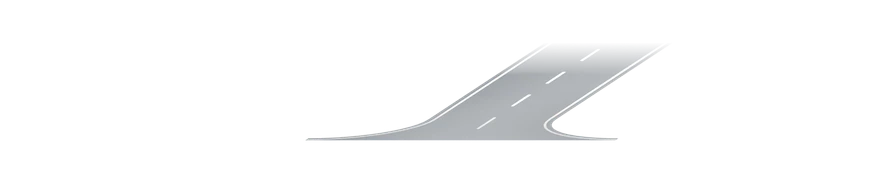
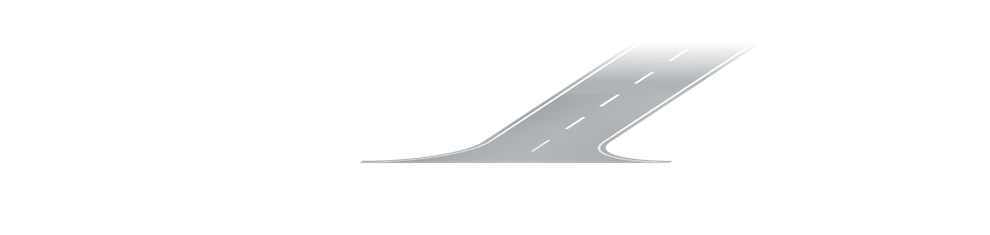
Lastbilen backar djupare in på sidovägen och svänger vidare
Släpets hjulaxel svänger nu med 9 m radie i stället för 6 m, och
backningen in på sidovägen är 10 m i stället för 7 m. Knickvinkeln
mellan dragbil och släp blir 48° i stället för 59°, och hela ekipaget
står inne på sidovägen innan det kör ut. Förut stod hytten kvar mitt
på huvudvägen.

Duken har mer plats nedåt, så skuggan inte längre kapas rakt när
lastbilen står vänd mot kameran. Svängen tar 70 bildrutor.

diff --git a/portfolio-svelte/static/css/portfolio.css b/portfolio-svelte/static/css/portfolio.css
@@ -1060,7 +1060,7 @@
 
 .turn-render {
 	visibility: hidden;
-	background: url('/images/truck/scania-turn.webp?v=1') no-repeat;
+	background: url('/images/truck/scania-turn.webp?v=2') no-repeat;
 }
 
 .turn.turning .turn-render {
@@ -1070,7 +1070,7 @@
 /* The side road grows out from the road, then fades once the truck has left it */
 .side-road {
 	opacity: 0;
-	background: url('/images/truck/side-road.webp?v=1') 0 0 / 100% 100% no-repeat;
+	background: url('/images/truck/side-road.webp?v=2') 0 0 / 100% 100% no-repeat;
 	clip-path: inset(calc((1 - var(--grown)) * var(--road-bottom) * 100%) 0 0 0);
 	transition: opacity 0.6s ease-out;
 }

diff --git a/portfolio-svelte/src/routes/[[lang=lang]]/+page.svelte b/portfolio-svelte/src/routes/[[lang=lang]]/+page.svelte
@@ -163,7 +163,7 @@
 	let roadGrown = $state(0); // how far the side road has grown out from the road, 0 to 1
 	let loaded: Promise<unknown> | undefined;
 	// The same addresses as in portfolio.css, so the stylesheet finds them loaded
-	const turnImages = ['/images/truck/scania-turn.webp?v=1', '/images/truck/side-road.webp?v=1', '/images/truck/scania-drive-left.webp?v=1'];
+	const turnImages = ['/images/truck/scania-turn.webp?v=2', '/images/truck/side-road.webp?v=2', '/images/truck/scania-drive-left.webp?v=1'];
 
 	function preload() {
 		return (loaded ??= Promise.all(

diff --git a/portfolio-svelte/src/app.html b/portfolio-svelte/src/app.html
@@ -9,7 +9,7 @@
 		<link rel="preload" href="/fonts/SourceSans3-variable-latin.woff2" as="font" type="font/woff2" crossorigin />
 		<link rel="stylesheet" href="/css/_base.css?v=2" />
 		%sveltekit.head%
-		<link rel="stylesheet" href="/css/portfolio.css?v=13" />
+		<link rel="stylesheet" href="/css/portfolio.css?v=14" />
 	</head>
 	<body data-sveltekit-preload-data="hover">
 		<div style="display: contents">%sveltekit.body%</div>

diff --git a/assets/blender/render_turn.py b/assets/blender/render_turn.py
@@ -29,9 +29,9 @@ TRAILER_AXLE = -10.91 # middle of the trailer's three axles
 L2 = HITCH_X - TRAILER_AXLE
 MID = -4.625          # halfway between the cab front (4.0) and the trailer's tail (-13.25)
 WHEEL = 0.52          # tyre radius
-RADIUS, RAMP, SPUR = 6.0, 4.0, 7.0
+RADIUS, RAMP, SPUR = 9.0, 4.0, 10.0  # the whole rig backs off the road, at 48° between tractor and trailer
 FPS = 24
-FRAMES_A, PAUSE, FRAMES_B = 28, 3, 30
+FRAMES_A, PAUSE, FRAMES_B = 32, 3, 34
 
 
 def path(x, y, psi, sign, straight_before=0.0, straight_after=0.0, step=0.02):
@@ -269,7 +269,8 @@ for p in timeline:
 seen += view([(px, py, 0) for px, py in loop])
 margin = 0.03
 u0, u1 = min(v.x for v in seen) - margin, max(v.x for v in seen) + margin
-v0, v1 = min(v.y for v in seen) - margin * 3, max(v.y for v in seen) + margin * 3
+# Room below for the shadow, which falls towards the camera once the truck faces it
+v0, v1 = min(v.y for v in seen) - margin * 10, max(v.y for v in seen) + margin * 3
 width, height = round((u1 - u0) * 720 / 2) * 2, round((v1 - v0) * 240 / 2) * 2
 u1, v1 = u0 + width / 720, v0 + height / 240
 assert width > height

diff --git a/assets/blender/README.md b/assets/blender/README.md
@@ -64,7 +64,7 @@ Skriptet skriver om `road.blend` och `/tmp/magnus-road.png`. Webbversionen
 `render_turn.py` öppnar `truck.blend` utan att ändra filen och renderar med
 samma kamera, ljus och skala:
 
-- svängen i 62 bildrutor: lastbilen backar in på en sidoväg bakom sig och kör
+- svängen i 70 bildrutor: hela ekipaget backar in på en sidoväg bakom sig och kör
   ut åt andra hållet,
 - sidovägen ensam,
 - lastbilen vänd åt vänster, 24 hjulbilder.
